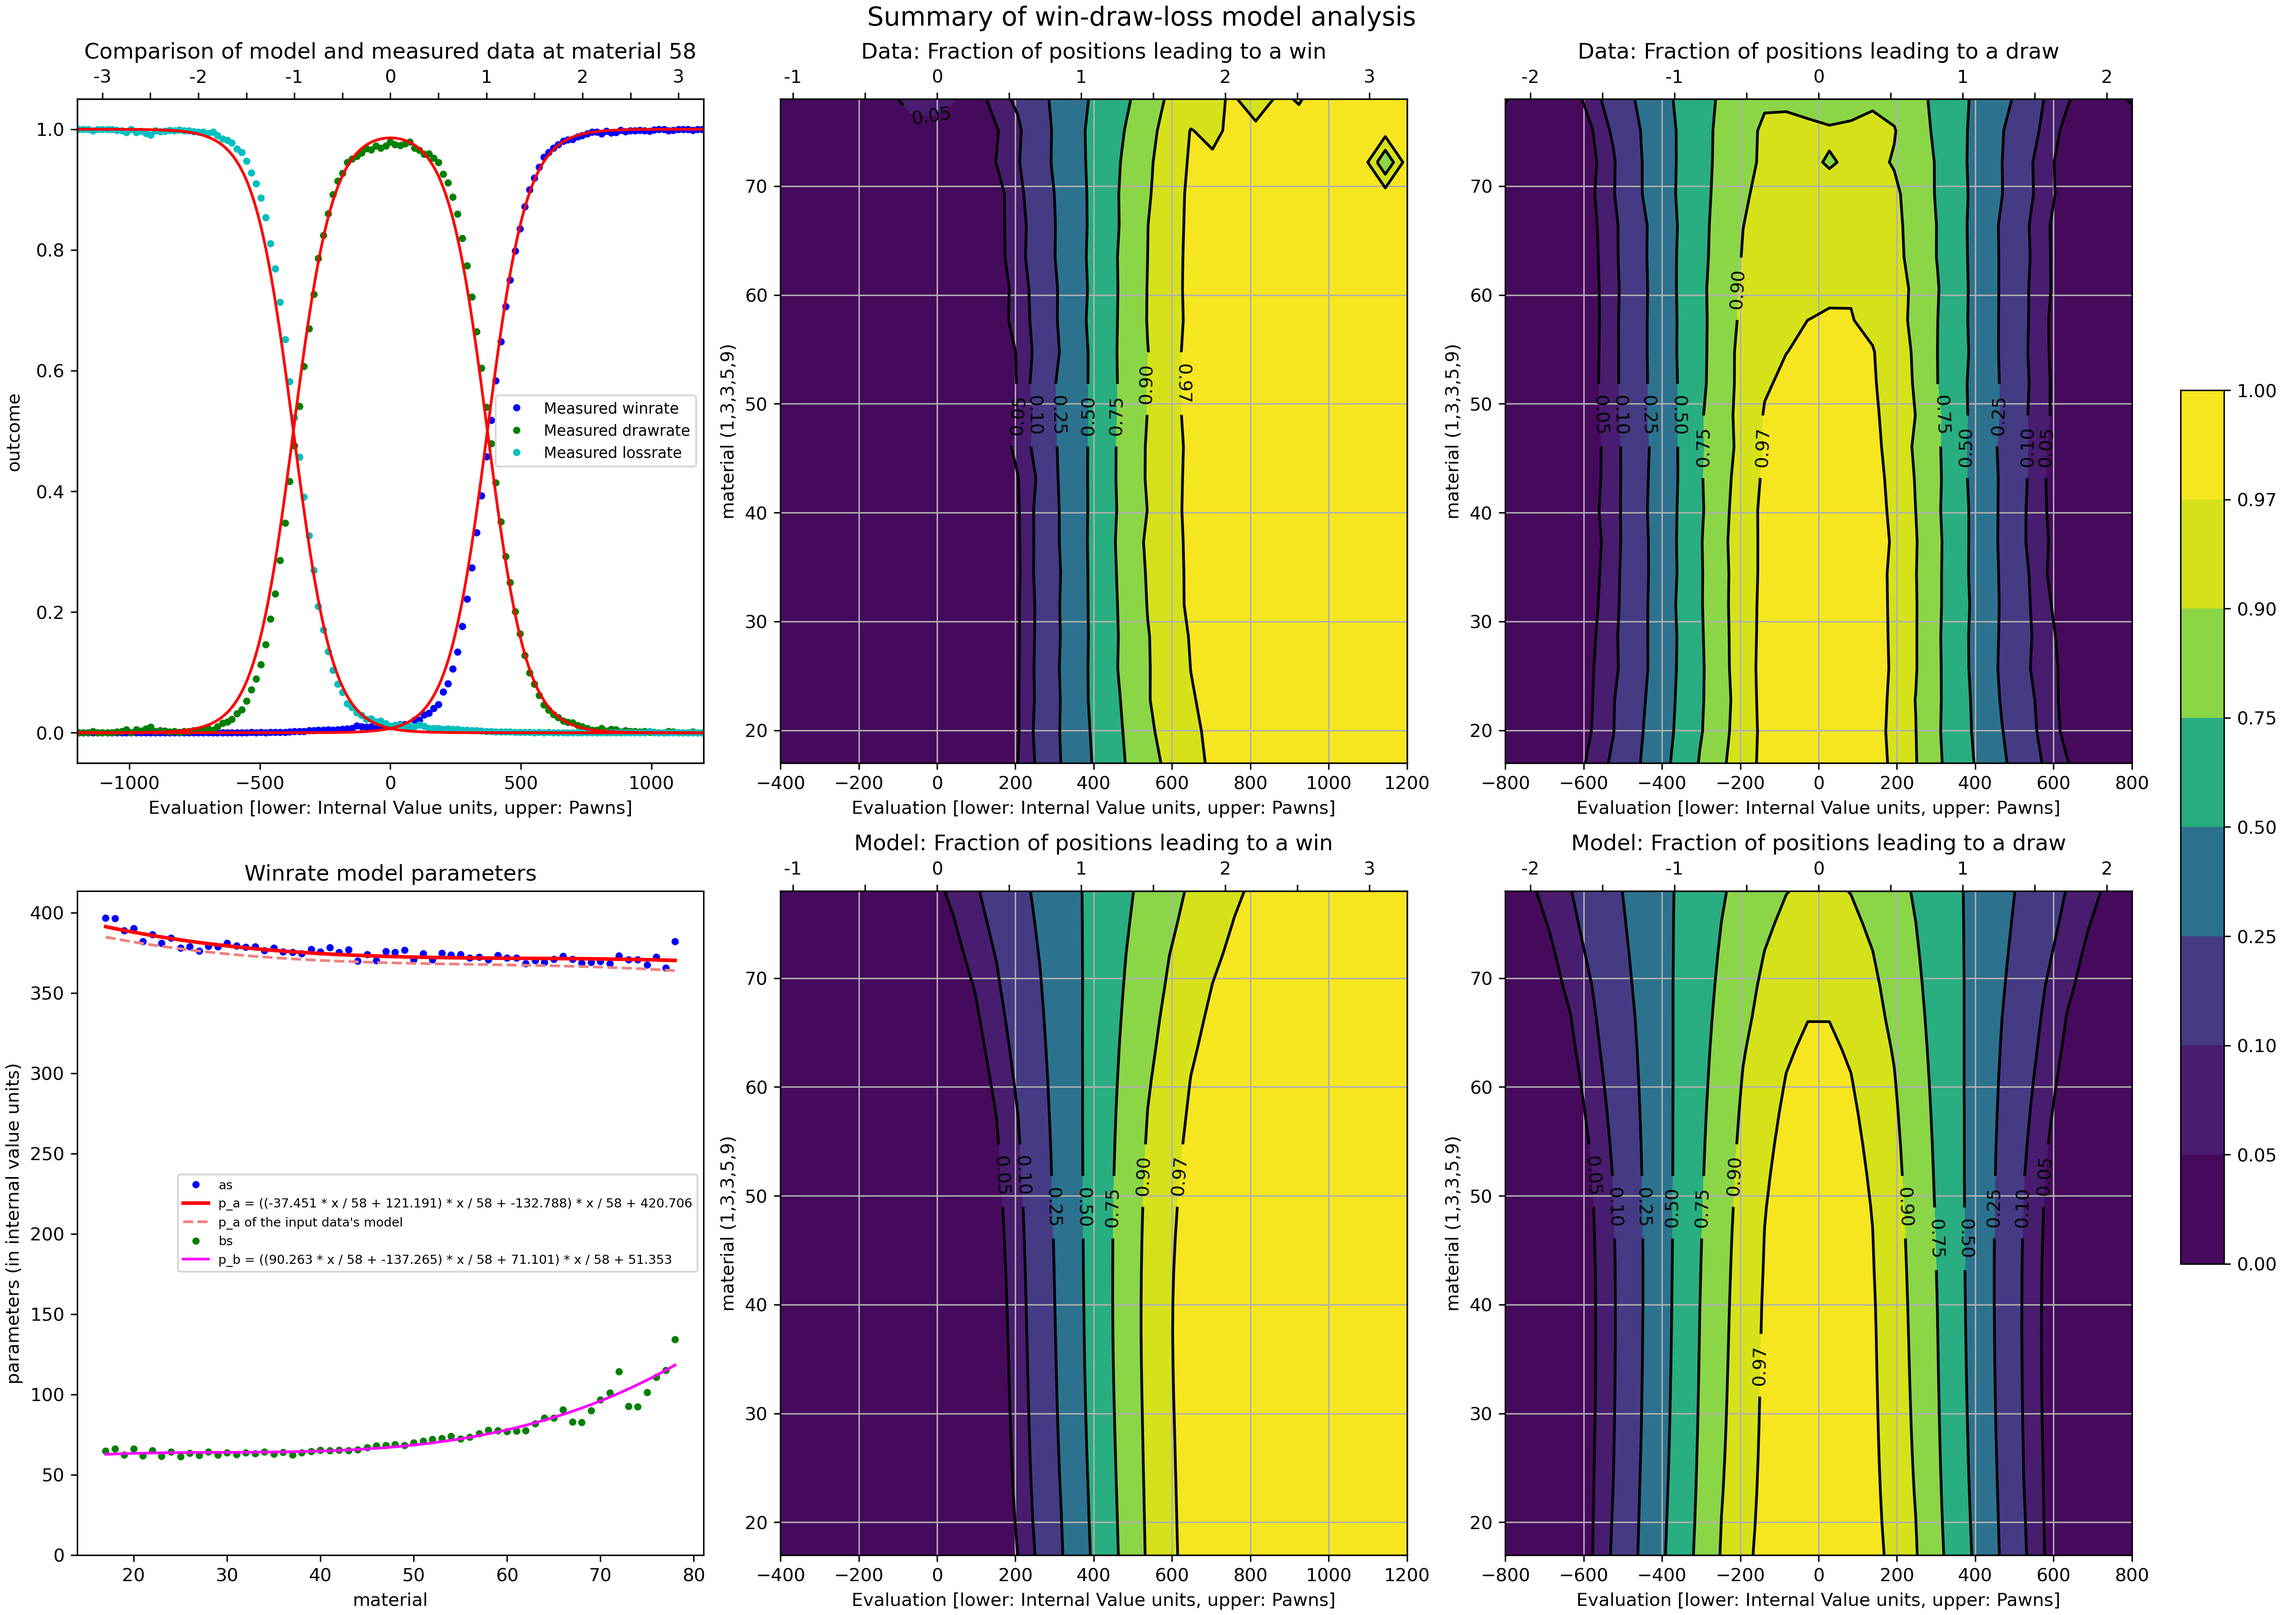
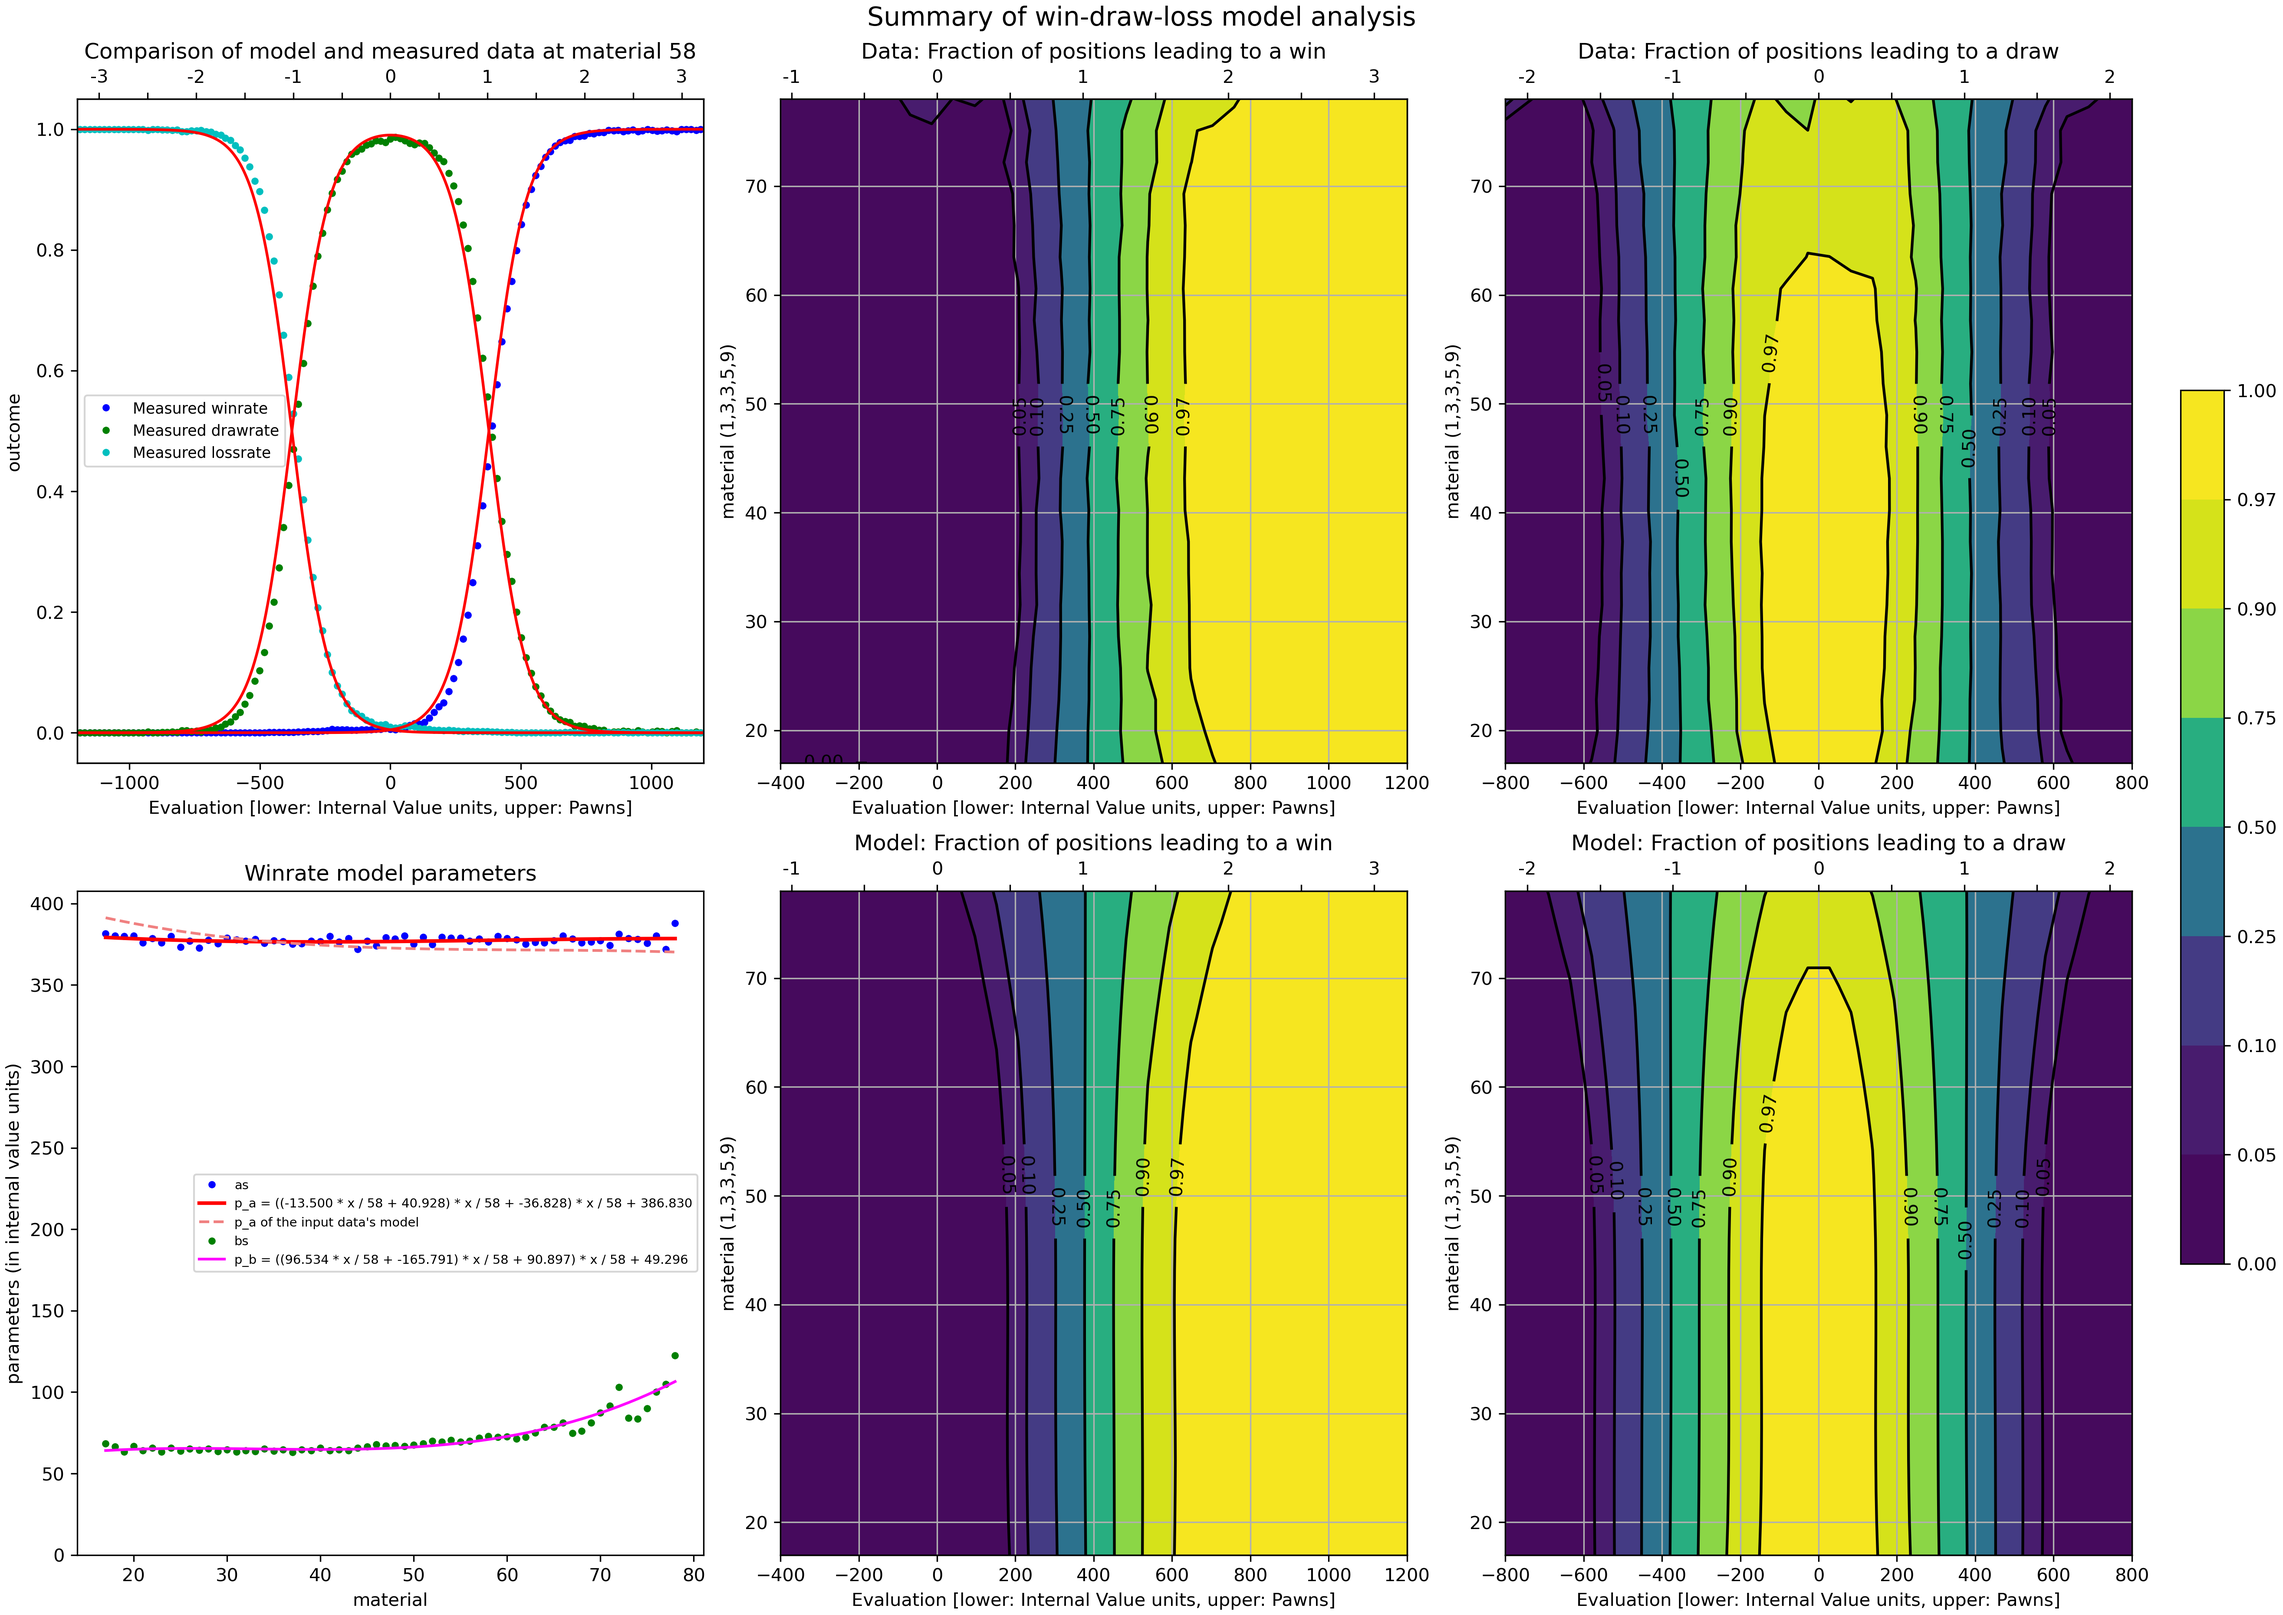
reflect the WDL model update in Stockfish

diff --git a/scoreWDL.py b/scoreWDL.py
@@ -710,7 +710,7 @@ if __name__ == "__main__":
 
     if args.NormalizeToPawnValue is None:
         if args.NormalizeData is None:
-            args.NormalizeData = '{"momType": "material", "momMin": 17, "momMax": 78, "momTarget": 58, "as": [-37.45051876,121.19101539,-132.78783573,420.70576692]}'
+            args.NormalizeData = '{"momType": "material", "momMin": 17, "momMax": 78, "momTarget": 58, "as": [-13.50030198,40.92780883,-36.82753545,386.83004070]}'
     else:
         assert (
             args.NormalizeData is None
